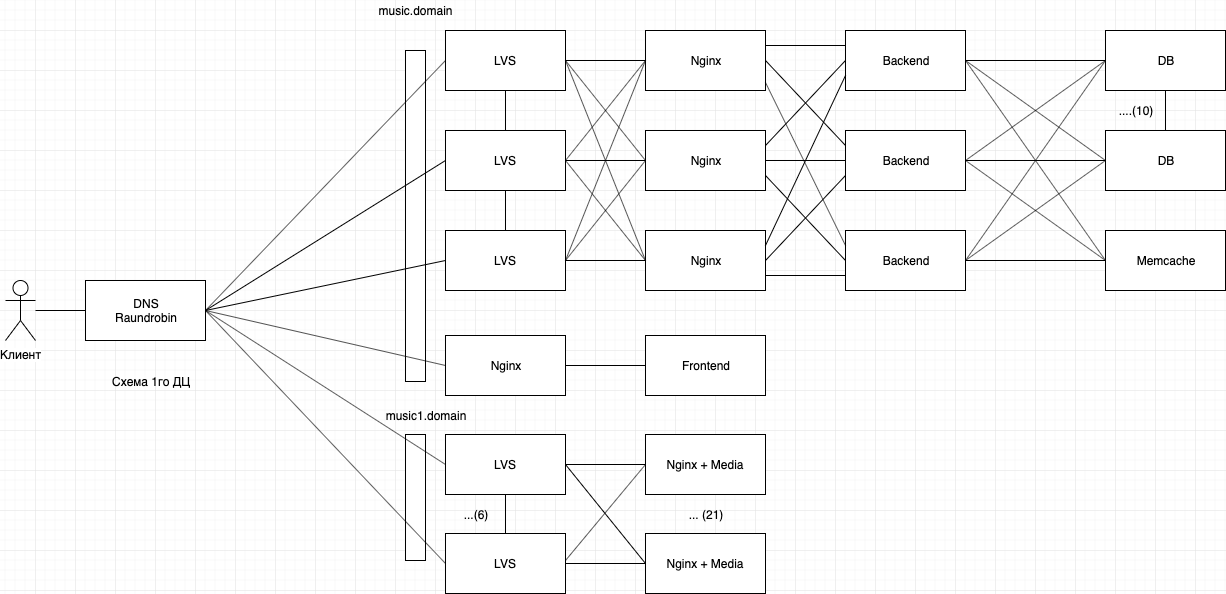
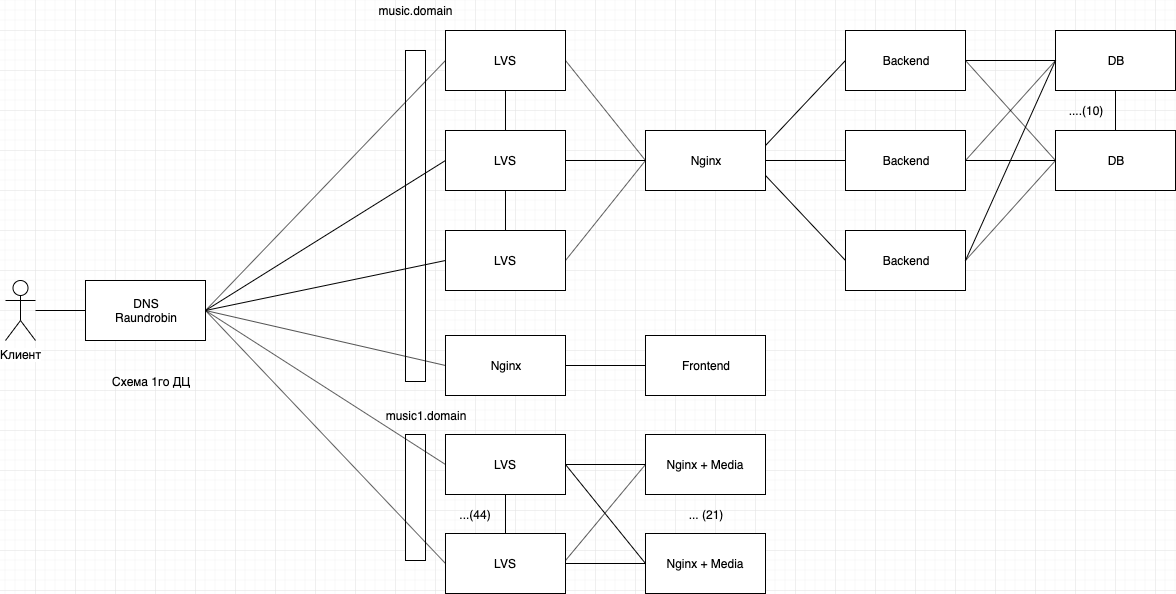
Пересчитал сервера и добавил расчеты nginx, lvs

diff --git a/README.md b/README.md
@@ -55,7 +55,7 @@
 Для раздачи контента нам будет необходимо 3 датацентра. В 2 датацентрах будут находить реплики основного ДЦ
 
 Для БД выберем сервера со следующими характеристиками: 
-**64Гб памяти	32 ядра	2x256Гб SSD	RAID 10**
+**4ТБ памяти	32 ядра	2x256Гб SSD	RAID 10**
 
 
 Для сервися аутефикации будет использоваться:
@@ -75,18 +75,20 @@
 
 На сервер вместиться с учетом запаса в 60% :
 
-256 * 1024^3 (байты) * 0.4 / 88 = 1 249 445 031 записей пользователей
+4 * 1024^4 (байты) * 0.4 * 0.95 (коэфф заполнения) / 88 = 18 991 564 479 записей пользователей
 
 Этого объема хватит для наших текущих потребностей сполна, но нам нужно обеспечить достаточное кол-во реплик для раздачи этой информации, а также шардировать для ускорения сервиса.
 
-Нагрузка на отдачу: 270 835 (кол-во пользователей в пик с запасом в 30%) / 29 000 (среднее rps PostreSQL) = 9,339 ~ 10 (серверов необходимо)
+Нагрузка на отдачу: 2 000 000 * 10 / 86400 * 2.5 * 1.3 ~ 753 rps
+
+Средняя нагрузка на всю систему бэков: 753 rps => такую нагрузку выдержит и 1 сервер на PostreSQL (выдает 25000 rps на чтение). Но поставим 3 сервера
 
 Партиции: БД развибается в группы по 10 000 пользователей по idU  
 
-Шардирование: Будет осуществляться по 9 серверам. Для шардирования берем остаток от деления idU на 9
+Шардирование: Нет необходимости
 
 СУБД: Redis (для хранения пользовательских токенов)
-Шардирование: Будет осуществляться по 9 серверам. Для шардирования берем остаток от деления хеш-суммы от ключа на 9
+Шардирование: Нет необходимости
 
 Для сервисов пользовательской музыки:
 
@@ -101,9 +103,11 @@
 
 256 * 1024^3 (байты) * 0.4 / (16 * 400 (среднее кол-во песен юзера)) = 17 179 869 (хранение записей пользователей)
 
+Берем 3 сервера аналогично с БД выше
+
 Партиции: БД развибается в группы по 10 000 пользователей по idU 
 
-Шардирование: Будет осуществляться по 9 серверам. Для шардирования берем остаток от деления idU на 9
+Шардирование: нет необходимости
 
 Аналогично для User's music history и Users popular music
 
@@ -125,51 +129,97 @@ Python, а также механизмы системы рекомендации
 
 ### 7. Расчет нагрузки и потребного оборудования
 
-Нагрузка на фронтенд: 
+**Нагрузка на фронтенд: **
 
-4 (Мб - средний объем нашего фронтенда) * 270 835 (кол-во пользователей в пик с запасом в 30%) ~ 1 058  Гб 
+4 (Мб - средний объем нашего фронтенда) * 270 835 (кол-во пользователей в пик с запасом в 30%) ~ 1 058  Гб / час = 300,942 МБ/с = 2,407536 Гигабита
 
-Выберем сервер: 32Гб памяти	32 ядра	минимальный SATA диск без RAID
+Выберем сервер: 128Гб памяти	32 ядра	минимальный SATA диск без RAID 10G Ethernet
 
 Кол-во серверов:
 
-1 058 / (32 * 0.9 (часть диска занята)) = 36,7 ~ 37 серверов для фронтенда
+2 000 000 * 2 / 86400 * 2.5 * 1.3 = 151 rps (необходимая нагрузка на отдачу фронтенда)
+
+С такой нагрузкой справится и 1 сервер фронтенда на nginx. Но тк мы расчитываем расширяться, то возьмем 3 сервера.
 
 Нагрузка на бэкенд: 
 
-Выберем сервер: 32Гб памяти	32 ядра	минимальный SATA диск без RAID
+Выберем сервер: 128Гб памяти	32 ядра	минимальный SATA диск без RAID 10G Ethernet
 
-Кол-во серверов бэкенда:
+**Кол-во серверов бэкенда:**
 
-270 835 (кол-во пользователей в пик с запасом в 30%) / (600 (rps при бэке на Golang/C)) = 452 серверов для бэкенда
+2 000 000 * 5 / 86400 * 2.5 * 1.3  = 377 rps => необходим +-10 бэкенд сервер
 
-Кол-во медиа серверов:
+**Кол-во медиа серверов:**
+
+Размер всех песен:
+
+22 000 000(всего примерно песен) * 1,867 МБ(средний размер минуты) * 3 минуты(средняя длина песни) ~ 118 Терабайт (всего необходимо хранить)
 
 (270 835 (кол-во пользователей в пик с запасом в 30%) * 349,129 (МБ среднее скачивание аудиоконтента)) / (756 449 (МБита/час) * 60 * 60 ) ~ 21 медиа сервер
 
-Кол-во БД серверов:
+Возьмем в 3 раза больше серверов, чтобы сделать реплики и разгрузить 1 ДЦ. Те 63 медиа сервера
 
-Из пункта 5 о расчете нагрузки следует, что необходимо: ~ 88 серверов для БД. 
+Выбранный сервер:
+4ТБ * 6 разъемов памяти	32 ядра	минимальный SATA диск RAID10 10G Ethernet
 
-Основываясь на расчеты нагрузки на БД требуется примерно:
+Общая вместительность в 1 ДЦ:
 
-88 + 21 + 37 + 452 = 598 (серверов)
+21 * 4 * 6 = 504 ТБ
 
+Общая заполненость серверов: 23,42%
+
+**Кол-во БД серверов высчитано в пункте 5.**
+ 
+**Кол-во Nginx серверов:**
+
+Для бэкенда требуется всего 1 сервер
+Для фронтенда еще 1
+Медиа серверам не нужен отдельный nginx-сервер
+
+Выберем сервер: 256Гб памяти 36 ядра	минимальный SATA диск без RAID 10G Ethernet
+
+Основываясь на [официальной документации](https://www.nginx.com/blog/testing-the-performance-of-nginx-and-nginx-plus-web-servers/) для нашего сервиса этого более чем достаточно, тк при такой конфигурации мы можем выдержать: 10067 новых коннестов в секунду при использовании https. Наше rps будет примерно: 733745, что полнустью покрывает наши потребности и даже есть достаточное пространство для расширения
+
+**Расчет LVS:**
+
+Выберем сервер: 32Гб памяти 36 ядра минимальный SATA диск без RAID 10G Ethernet
+
+Тк нам нужно обеспечивать максимальную доступность, поэтому установим 3 сервера, которые будут работать с бэком.
+
+Тк для медиа надо передавать 211 Терабит трафика, то
+необходимо 22 сервера без учета запасных. Но прозапас возьмем 44 сервера.
+
+**Основываясь на расчеты нагрузки требуются следующие сервера:**
+
+|Тип сервера|Кол-во|Конфигурация|
+|-----------|------|------------|
+|Фронтенд|3|128Гб памяти	32 ядра	минимальный SATA диск без RAID 10G Ethernet|
+|Бэкенд|10|128Гб памяти	32 ядра	минимальный SATA диск без RAID 10G Ethernet|
+|БД|30|128Гб памяти	32 ядра	минимальный SATA диск без RAID 10G Ethernet|
+|Медиа|63|128Гб памяти	32 ядра	минимальный SATA диск без RAID 10G Ethernet|
+|SDN|12|128Гб памяти	32 ядра	минимальный SATA диск без RAID 10G Ethernet|
+|Nginx|6|256Гб памяти 36 ядра	минимальный SATA диск без RAID 10G Ethernet|
+|LVS|141|32Гб памяти 36 ядра минимальный SATA диск без RAID 10G Ethernet|
+|Итого: |256|
 
 ### 8. Выбор хостинга / облачного провайдера и расположения серверов
 
 Выбран следующий хостинг: https://mchost.ru/
 
 Основные сервера расположены в Москве, а по остально России распределены собственные SDN:
-Питер: 10 (серверов)
-Красноярск: 10 (серверов)
+
+118 ТБ(необходимый объем) / (6*4) (в 1м срвере ТБ) ~ 5 серверов
+
+Возьмем с запасом по 6 серверов на каждый SDN.
+
+Питер: 6 (серверов)
+Новосибирск: 6 (серверов)
 
 ### 9. Схема балансировки нагрузки (входящего трафика и внутрипроектного, терминация SSL)
-
+![](./img/9.png)
 
 ### 10. Обеспечение отказоустойчивости
 
 Для обеспечения отказоустойчивости:
 
 * Будет использоваться система мониторинга: grafana+prometeus
-* Все приложения будут находиться в докер-контейнирах и располагаться на сервер с помощью docker kubernetes, который также будет обеспечивать переподъем приложений при отказе системы.
